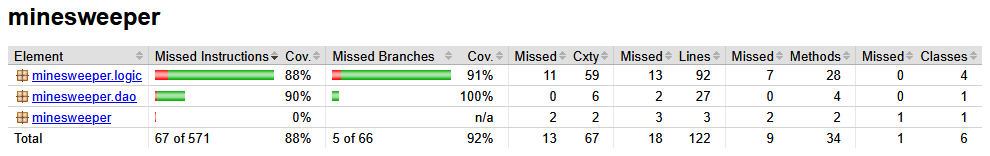
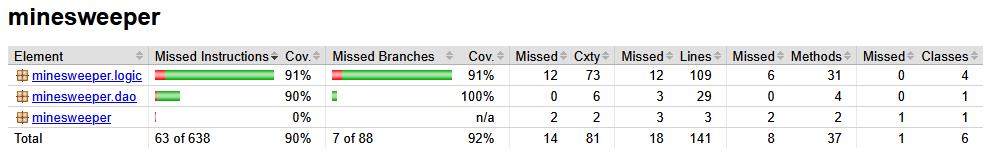
updated test coverage results

diff --git a/documentation/testing.md b/documentation/testing.md
@@ -14,6 +14,6 @@ The DAO classes are tested using JUnit. The TemporaryFolder rule is used to make
 
 ### Test coverage
 
-The test coverage was measured using JaCoCo. The coverage for the application is 88% for lines and 92% for branches.
+The test coverage was measured using JaCoCo. The coverage for the application is 90% for lines and 92% for branches.
 
 <img src="images/test_coverage.png">
